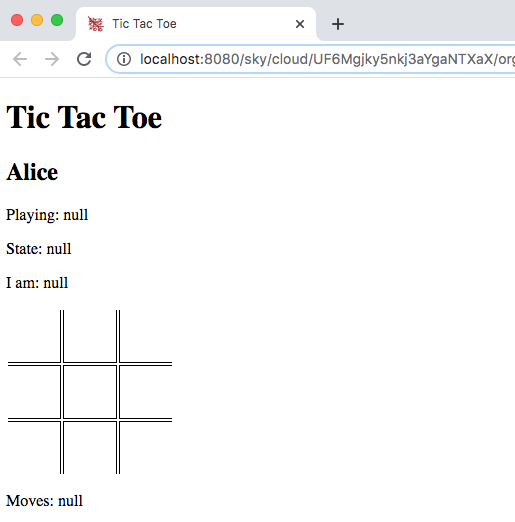
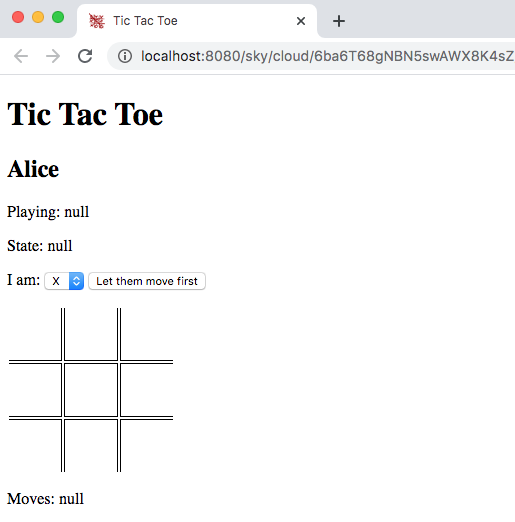
update instructions

diff --git a/README.md b/README.md
@@ -79,13 +79,14 @@ Finally, open a new window from the provided URL.
 ![The Tic Tac Toe UI](https://picolab.github.io/TicTacToe/images/Step5d.png)
 
 ⁶ How to select a mark and make an initial move.
-In the Testing tab, enter either "X" or "O" (without the quotes) in the "me" box.
-For the "move" enter your mark, a colon, and a position in the grid.
-Click on the "tictactoe/start" button and copy the provided message.
+Choose either "X" or "O" in the dropdown beside "I am: ".
+If you wish to move first, click one of the 9 squares of the grid.
+If you want to let them move first, click the "Let them move first" button.
+Select and copy the provided message.
 
 ![Generating an initial message](https://picolab.github.io/TicTacToe/images/Step6.png)
 
-Refresh your UI to see your first move and that the next move is your adversary's
+After copying, click "OK" to see your first move and that the next move is your adversary's
 (who has yet to be identified).
 
 ![Refreshed UI](https://picolab.github.io/TicTacToe/images/Step6b.png)
